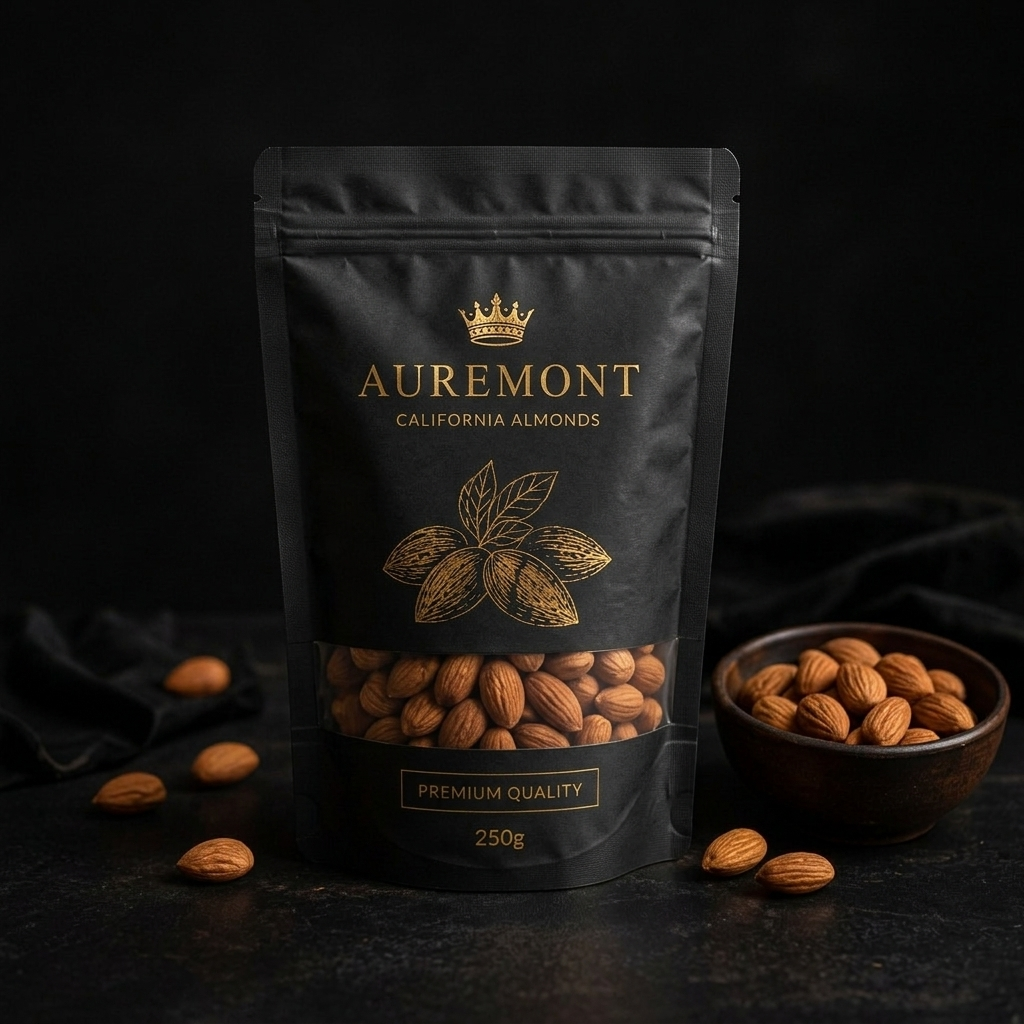
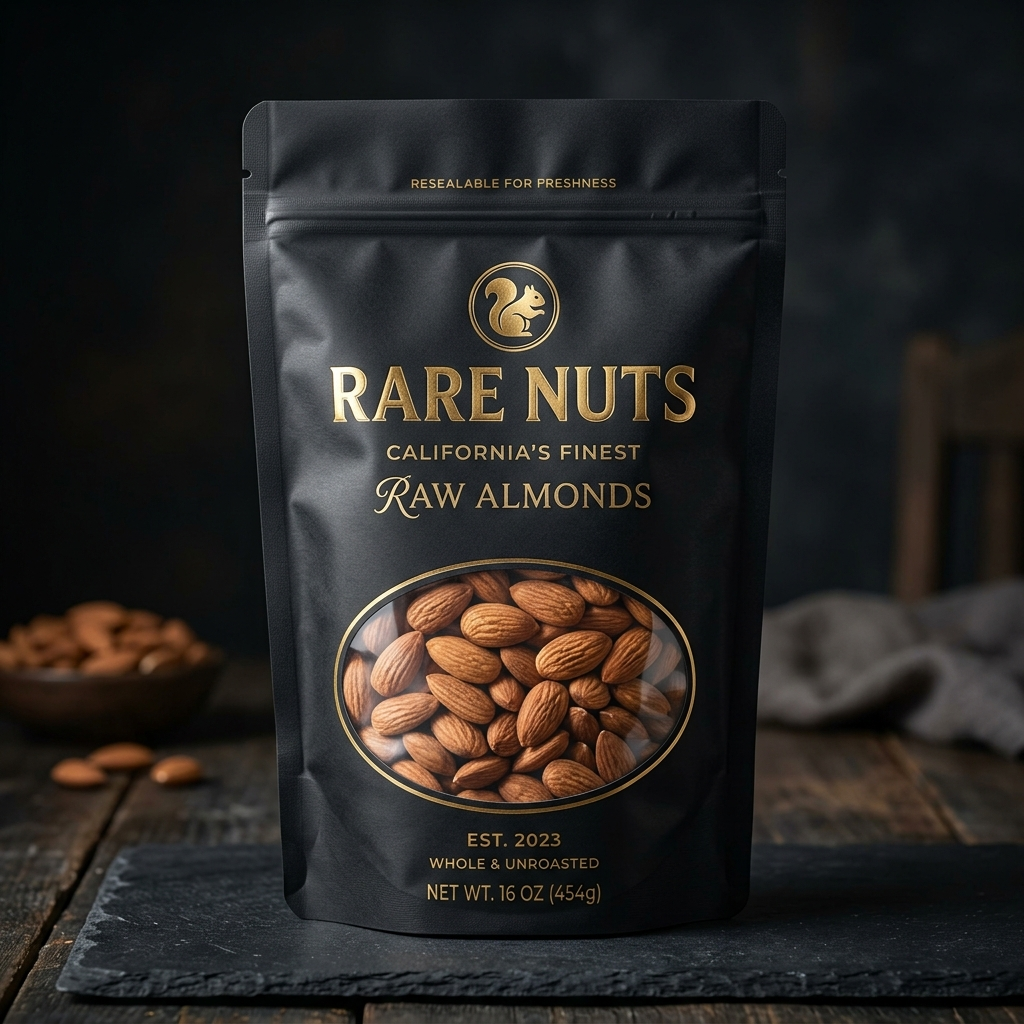
feat: brand update to RARE NUTS, product card authenticity badges, and 8K product photo sync

diff --git a/auremont-frontend/scripts/sync-rarenuts-images.js b/auremont-frontend/scripts/sync-rarenuts-images.js
@@ -1,0 +1,30 @@
+const fs = require('fs');
+const path = require('path');
+
+const brainDir = "C:\\Users\\adts-\\.gemini\\antigravity-ide\\brain\\05514b75-0c70-4bc6-837a-dfc08a7e4faf";
+const targetDir = path.join(__dirname, '..', 'public', 'images');
+
+const imageMappings = [
+  { src: "rarenuts_pouch_250g_1786340624218.png", dest: "california-almonds-250g.png" },
+  { src: "rarenuts_roasted_jar_1786340636451.png", dest: "roasted-almonds-jar.png" },
+  { src: "rarenuts_mahogany_chest_1786340649537.png", dest: "royal-almonds-wooden-box.png" },
+  { src: "rarenuts_gift_unboxing_1786340665507.png", dest: "luxury-gift-box-unboxing.png" },
+  { src: "rarenuts_window_pouch_1786340678242.png", dest: "almonds-pouch-window.png" },
+  { src: "rarenuts_gift_unboxing_1786340665507.png", dest: "rarenuts-packaging-showcase.png" },
+];
+
+if (!fs.existsSync(targetDir)) {
+  fs.mkdirSync(targetDir, { recursive: true });
+}
+
+imageMappings.forEach(mapping => {
+  const sourcePath = path.join(brainDir, mapping.src);
+  const destPath = path.join(targetDir, mapping.dest);
+  if (fs.existsSync(sourcePath)) {
+    fs.copyFileSync(sourcePath, destPath);
+    console.log(`Copied ${mapping.src} -> ${mapping.dest}`);
+  } else {
+    console.warn(`Source missing: ${sourcePath}`);
+  }
+});
+console.log('RARE NUTS image synchronization complete!');

diff --git a/auremont-frontend/components/ProductCard.tsx b/auremont-frontend/components/ProductCard.tsx
@@ -34,6 +34,13 @@ export default function ProductCard({ product }: { product: Product }) {
           />
         </Link>
         
+        {/* RARE NUTS Authenticity Tag */}
+        <div className="absolute top-2 left-2 sm:top-4 sm:left-4 z-20 pointer-events-none">
+          <span className="text-[9px] uppercase tracking-ultra text-luxuryGold font-medium bg-background/80 backdrop-blur-md px-2.5 py-1 border border-luxuryGold/30 rounded-full inline-block">
+            @RARENUTS
+          </span>
+        </div>
+
         {/* Wishlist Heart */}
         <div className="absolute top-2 right-2 sm:top-4 sm:right-4 z-20">
           <button 
